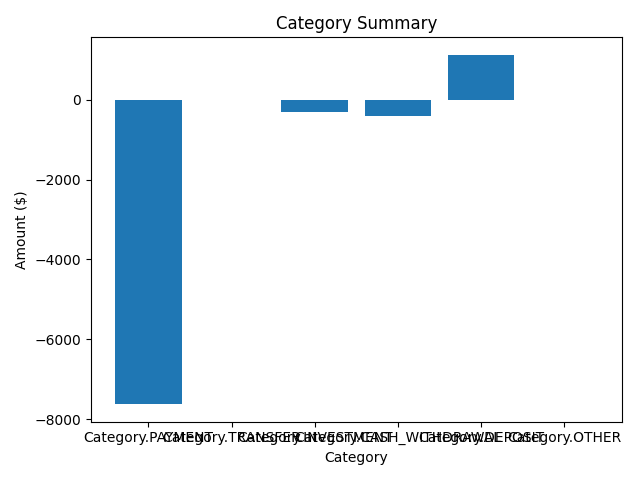
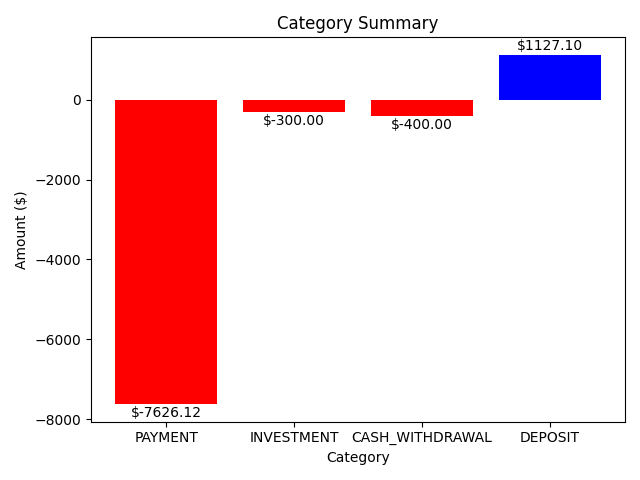
bar chart for category summary

Changed region(s): [[0.125, 0.1875, 0.9688, 0.9688], [0.375, 0.0625, 0.9375, 0.2812], [0.4062, 0.0312, 0.6875, 0.0625]]

diff --git a/main.py b/main.py
@@ -25,13 +25,16 @@ print("")
 
 
 categories_dict = summarize_by_category(transactions)
-categories = list(str(c) for c in categories_dict.keys())
+categories = list(str(c.name) for c in categories_dict.keys())
 values = list(categories_dict.values())
+colors = ['red' if v < 0 else 'blue' for v in values]
 
-plt.bar(categories, values)
+plt.bar(categories, values, color=colors)
 plt.xlabel('Category')
 plt.ylabel('Amount ($)')
 plt.title('Category Summary')
 # Save chart:
+for i, val in enumerate(values):
+    plt.text(i, val + (50 if val >= 0 else -50), f"${val:.2f}", ha='center', va='bottom' if val >= 0 else 'top')
 plt.tight_layout()
 plt.savefig("category_summary.png")

diff --git a/filter_func.py b/filter_func.py
@@ -22,9 +22,11 @@ def summarize_by_category(transactions):
             categories[t.category] += t.amount
     print("Category Summary:")
     print("-----------------")
-    for key, val in categories.items(): 
-        if val != 0: 
-            print(f"{key.name}: {format_amount(val)}")
+    for key in list(categories.keys()): 
+        if categories[key] == 0: 
+            categories.pop(key)
+            continue
+        print(f"{key.name}: {format_amount(categories[key])}")
     return categories
     
 
